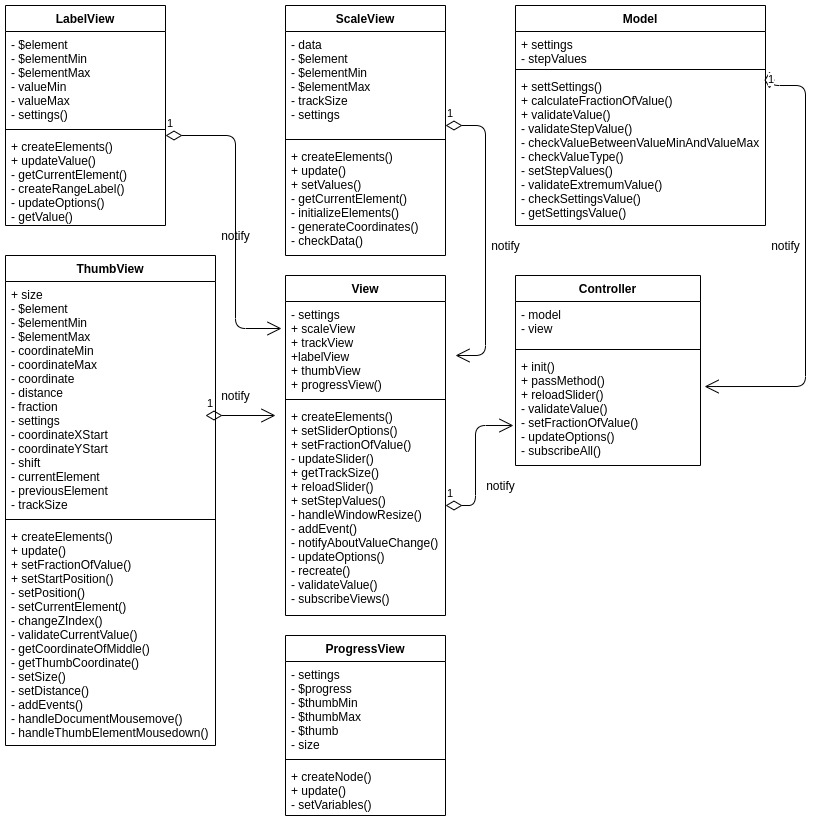
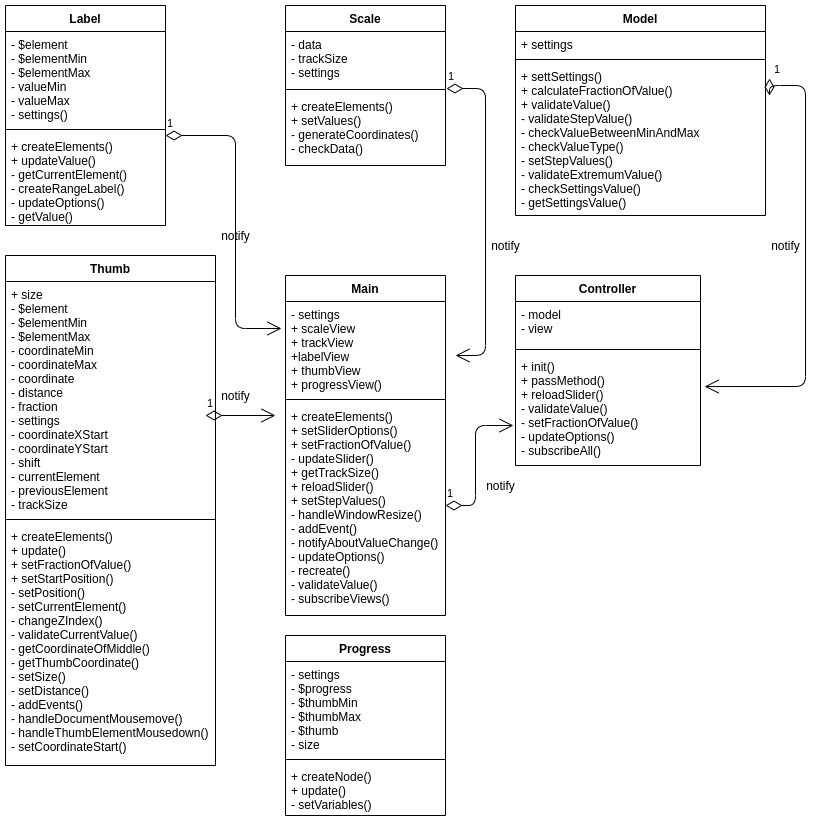
update uml, remove unused code

diff --git a/src/slider/Controller/Controller.ts b/src/slider/Controller/Controller.ts
@@ -56,10 +56,6 @@ class Controller extends Observable {
     this.model.calculateFractionOfValue(value);
   }
 
-  private setStepValues(): void {
-    this.view.setStepValues(this.model.stepValues);
-  }
-
   private updateOptions(options: SliderElementOptions): void {
     this.model.setSettings(options);
     if (this.model.settings.method) {
@@ -71,7 +67,6 @@ class Controller extends Observable {
     this.view.subscribe({ method: this.updateOptions, type: EventTypes.UPDATE_OPTIONS });
     this.view.subscribe({ method: this.validateValue, type: EventTypes.VALIDATE_VALUE });
     this.view.subscribe({ method: this.setFractionOfValue, type: EventTypes.SET_FRACTION });
-    this.view.subscribe({ method: this.setStepValues, type: EventTypes.SET_STEP_VALUES });
     this.model.subscribe({ method: this.view.setFractionOfValue, type: EventTypes.SET_FRACTION });
     this.model.subscribe({ method: this.view.updateSlider, type: EventTypes.UPDATE_VALUE });
   }

diff --git a/src/slider/Model/Model.ts b/src/slider/Model/Model.ts
@@ -17,8 +17,6 @@ interface CheckTypeOptions {
 class Model extends Observable {
   public settings: SliderElementOptions;
 
-  public stepValues: number[];
-
   public setSettings(options: PluginOptions): void {
     this.settings = { ...this.settings, ...options };
 

diff --git a/src/slider/views/Main/Main.ts b/src/slider/views/Main/Main.ts
@@ -50,7 +50,6 @@ class Main extends Observable {
       this.labelView.createElements();
     }
     if (step) {
-      this.notifyAll({ type: EventTypes.SET_STEP_VALUES });
       this.scaleView.createElements(this.getTrackSize());
     }
 

diff --git a/src/slider/constants.ts b/src/slider/constants.ts
@@ -5,7 +5,6 @@ enum EventTypes {
   VALIDATE_VALUE = 'VALIDATE_VALUE',
   VALUE_CHANGE = 'VALUE_CHANGE',
   UPDATE_VALUE = 'UPDATE_VALUE',
-  SET_STEP_VALUES = 'SET_STEP_VALUES',
 }
 
 export default EventTypes;
